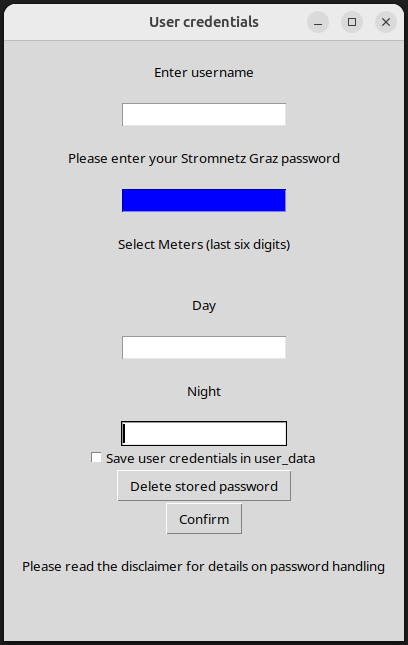
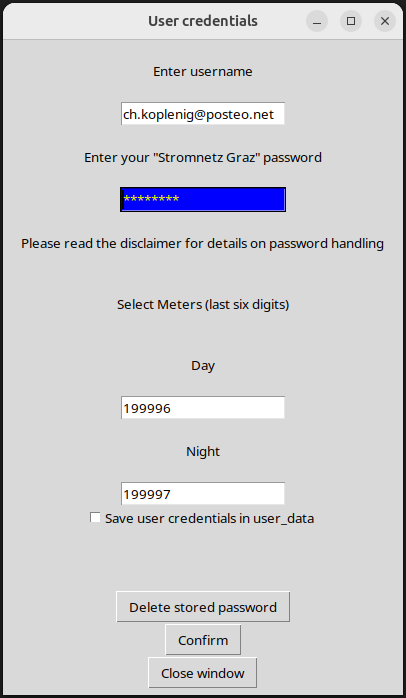
Gui Close Button Button which closes the gui and stops the instantiation of the application class.

diff --git a/src/SMIT/userinput.py b/src/SMIT/userinput.py
@@ -13,6 +13,7 @@ Typical usage:
     app = Application()
     app.gui.method()
 """
+import sys
 import tkinter as tk
 from tkinter import ttk
 import pathlib as pl
@@ -44,6 +45,7 @@ class UiTools():
         self.window = None
         # Tkinter widgets
         self.button_confirm = None
+        self.button_close = None
         self.button_delPwd = None
         self.checkbox_savePwd = None
         self.entry_password = None
@@ -102,6 +104,11 @@ class UiTools():
             command=self._button_accept
         )
 
+        self.button_close = tk.Button(
+            text='Close window',
+            command=self._button_close
+        )
+        
         self.button_delPwd = tk.Button(
             text='Delete stored password',
             command=self._button_delpwd
@@ -118,12 +125,15 @@ class UiTools():
             textvariable=self.var_password,
             show='*'
         )
+        
         self.entry_username = tk.Entry(
             textvariable=self.entry_username
         )
+        
         self.entry_meter_day = tk.Entry(
             textvariable=self.entry_meter_day
         )
+        
         self.entry_meter_night = tk.Entry(
             textvariable=self.entry_meter_night
         )
@@ -215,6 +225,20 @@ class UiTools():
         else:
             self.var_password.set('')
 
+    def _button_close(self) -> None:
+        """Define close button action.
+        
+        On button press the window will be closed.
+        
+        Note:
+            This raises a ugly error message when executed in
+            a Jupyter Notebook setup. To my knowledge the 
+            sys.exit() command is needed because the init of
+            the application should be stopped. 
+        """
+        self.window.destroy()
+        sys.exit('Close button pressed')
+    
     def _window_setup(self) -> None:
         """Define entries for "User credentials" dialog.
         
@@ -222,18 +246,20 @@ class UiTools():
         """
         self._text('Enter username')
         self.entry_username.pack()
-        self._text('Please enter your Stromnetz Graz password')
+        self._text('Enter your "Stromnetz Graz" password')
         self.entry_password.pack()
         self.entry_password.focus()
+        self._text('Please read the disclaimer for details on password handling')
         self._text('Select Meters (last six digits)')
         self._text('Day')
         self.entry_meter_day.pack()
         self._text('Night')
         self.entry_meter_night.pack()
         self.checkbox_savePwd.pack()
+        self._text('')
         self.button_delPwd.pack()
         self.button_confirm.pack()
-        self._text('Please read the disclaimer for details on password handling')
+        self.button_close.pack()
 
     def credentials_dialog(self) -> None:
         """Built top level window.
@@ -244,7 +270,7 @@ class UiTools():
         """
         self.window = tk.Tk()
         self.window.title('User credentials')
-        self.window.geometry('400x600')
+        self.window.geometry('400x655')
         self.window.bind('<Return>', self._return_pressed)
 
         self._def_variables()

diff --git a/opt/testing.py b/opt/testing.py
@@ -86,16 +86,16 @@ def test_logging() -> None:
     user.logger.debug('Logging test sucessfull')
     
 # Pdoc3 testing
-print('########################################')
-print('Docstring:')
-print('----------')
-print(user.toml_tools.load_toml_file.__doc__)
-print('########################################')
-print('########################################')
-print('Docstring:')
-print('----------')
-print(user.toml_tools.__doc__)
-print('########################################')
+# print('########################################')
+# print('Docstring:')
+# print('----------')
+# print(user.toml_tools.load_toml_file.__doc__)
+# print('########################################')
+# print('########################################')
+# print('Docstring:')
+# print('----------')
+# print(user.toml_tools.__doc__)
+# print('########################################')
     
 ############## load test #######################
 #password_dialog()

diff --git a/README.md b/README.md
@@ -28,12 +28,12 @@ This is a hobby project and I have a high motivation to keep it running though.
 	* [Application run](#application-run)
 	* [Dummy Mode](#dummy-usage)
 	* [Live Data](#live-data-usage)
- * [Roadmap](#roadmap)
- * [Issues](#issues)
  * [Documentation](#documentation)
 	* [Pytest Setup](#testing)
 	* [Application Structure](#application-structure)
 	* [Folder Structure](#folder-structure)
+ * [Roadmap](#roadmap)
+ * [Issues](#issues)
  * [Requirements](#requirements)
  * [Participation Guidlines](#participating-guidlines)
  * [Acknowledgements](#acknowledgements)
@@ -103,25 +103,6 @@ output will feature more detailed plots to get usefull insights regarding the ow
 <ins><b><i> Power Usage Sample Plot </i></b></ins>
 </p>
 </details>
-
-## Roadmap
-This roadmap is in no particular order. The priorization depends on which topic catches me the most at a given time.
-
-- API access -> Depends on availability of public API
-- Implement 15min resolution measurements (user OPT IN needed at provider site)
-- Switch from Jupyter Notebook to modern GUI
-- Use Sphinx for documentation
-- Implement database
-- Create executable package
-- More detailed data plots
-- Enhance logging / Debug option
-- Implement more electricity providers
-
-## Issues
-- No Decline button in GUI
-- Main.ipynb -> Log gets printed multiple times [#74](https://github.com/tmpck/strom/issues/74)
-- Rsa Keys on initial run not working [#60](https://github.com/tmpck/strom/issues/60)
-- SNG Data update not implemented [#43](https://github.com/tmpck/strom/issues/43)
 
 ## Documentation
 Detailled technical documentation for each class/method can be found here:
@@ -218,6 +199,24 @@ __Libraries__
 	- --> Data for running tests
 </p>
 </details>
+
+## Roadmap
+This roadmap is in no particular order. The priorization depends on which topic catches me the most at a given time.
+
+- API access -> Depends on availability of public API
+- Implement 15min resolution measurements (user OPT IN needed at provider site)
+- Switch from Jupyter Notebook to modern GUI
+- Use Sphinx for documentation
+- Implement database
+- Create executable package
+- More detailed data plots
+- Enhance logging / Debug option
+- Implement more electricity providers
+
+## Issues
+- Main.ipynb -> Log gets printed multiple times [#74](https://github.com/tmpck/strom/issues/74)
+- Rsa Keys on initial run not working [#60](https://github.com/tmpck/strom/issues/60)
+- SNG Data update not implemented [#43](https://github.com/tmpck/strom/issues/43)
 
 ## Requirements
 The virtual environment was created with **Python 3.11** as base.  
